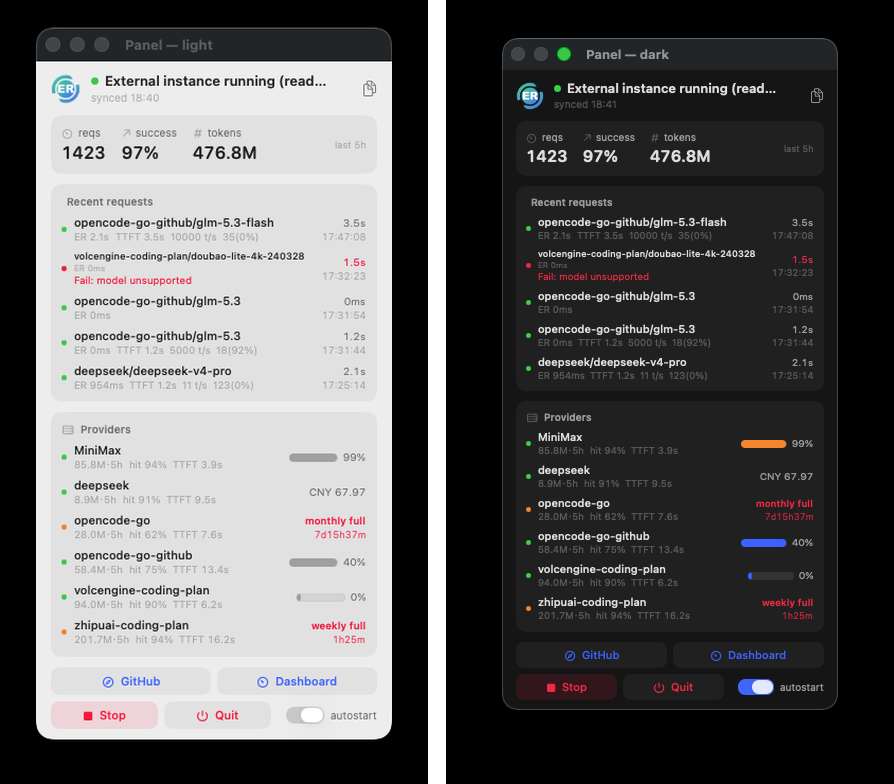
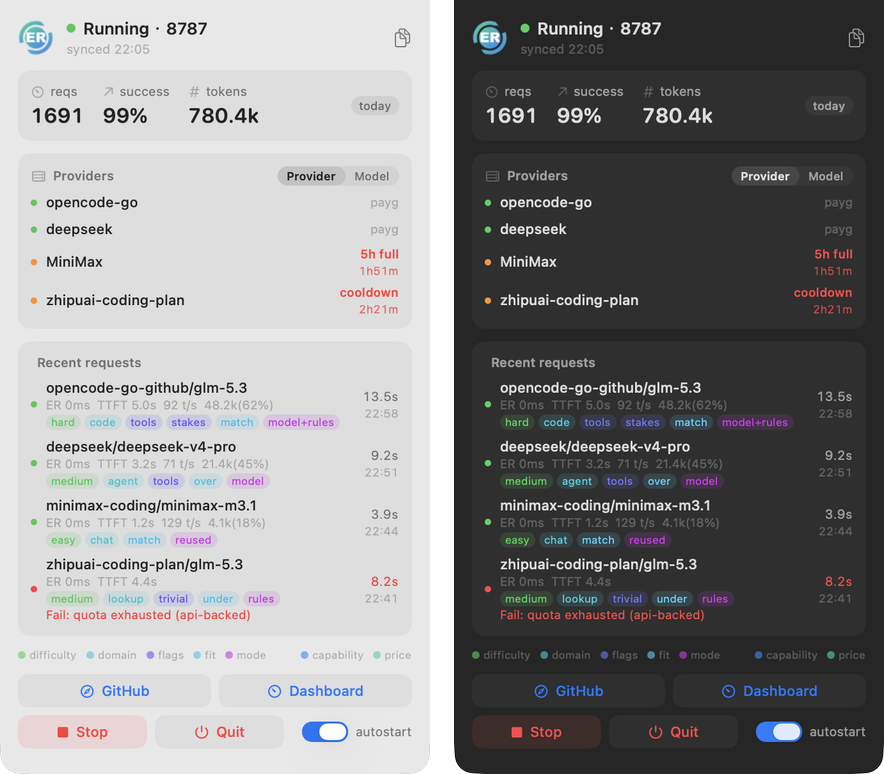
docs(readme): refresh panel screenshot and 0.1.6 feature notes

diff --git a/apps/tray/Sources/PanelPreview/main.swift b/apps/tray/Sources/PanelPreview/main.swift
@@ -11,18 +11,27 @@ enum PanelPreview {
         state.requests = 1691
         state.successRate = 99
         state.tokensK = "780.4k"
+        // 文档截图用的稳定种子（EV_PREVIEW_SEED=1）：覆盖五类标签的各种组合，
+        // 不依赖本机实时流量（否则 README 图会随环境漂移）
         state.recent = [
             RecentDecision(model: "opencode-go-github/glm-5.3", status: 200, totalMs: 13_540, ttftMs: 5_012, tokS: 92.4, agent: "opencode", time: "22:58",
-                           capability: "powerful",
+                           totalTokens: 48_210, cachePct: 62, capability: "powerful",
                            tags: DecisionTags(difficulty: "hard", domain: "code", flags: ["tools", "stakes"], mode: "model+rules", fit: "match")),
+            RecentDecision(model: "deepseek/deepseek-v4-pro", status: 200, totalMs: 9_180, ttftMs: 3_240, tokS: 71.2, agent: "claude-code", time: "22:51",
+                           totalTokens: 21_450, cachePct: 45, capability: "powerful",
+                           tags: DecisionTags(difficulty: "medium", domain: "agent", flags: ["tools"], mode: "model", fit: "over")),
+            RecentDecision(model: "minimax-coding/minimax-m3.1", status: 200, totalMs: 3_905, ttftMs: 1_180, tokS: 128.6, agent: "opencode", time: "22:44",
+                           totalTokens: 4_120, cachePct: 18, capability: "basic",
+                           tags: DecisionTags(difficulty: "easy", domain: "chat", flags: [], mode: "reused", fit: "match")),
             RecentDecision(model: "zhipuai-coding-plan/glm-5.3", status: 500, totalMs: 8_214, ttftMs: 4_410, tokS: nil, agent: "pi", time: "22:41",
-                           capability: "basic",
-                           tags: DecisionTags(difficulty: nil, domain: nil, flags: [], mode: "reused", fit: nil)),
+                           failReason: "quota exhausted (api-backed)", capability: "powerful",
+                           tags: DecisionTags(difficulty: "medium", domain: "lookup", flags: ["trivial"], mode: "rules", fit: "under")),
         ]
         state.providers = [
             ProviderRow(key: "opencode-go", enabled: true, available: true, cooldownUntil: nil, cooldownCause: nil, pct: 4, tokens24h: 92_000, planKind: "go"),
+            ProviderRow(key: "deepseek", enabled: true, available: true, cooldownUntil: nil, cooldownCause: nil, pct: 26, tokens24h: 51_000, planKind: "api"),
+            ProviderRow(key: "MiniMax", enabled: true, available: false, cooldownUntil: Date().addingTimeInterval(6_720), cooldownCause: "quota window exhausted (5h)", pct: 100, tokens24h: 12_400, planKind: "coding"),
             ProviderRow(key: "zhipuai-coding-plan", enabled: true, available: false, cooldownUntil: Date().addingTimeInterval(8_520), cooldownCause: "transient error (cooling down)", pct: 71, tokens24h: 51_000, planKind: "coding"),
-            ProviderRow(key: "minimax-coding", enabled: false, available: true, cooldownUntil: nil, cooldownCause: nil, pct: nil, tokens24h: 0, planKind: "coding"),
         ]
         state.lastSync = Date()
 
@@ -36,8 +45,9 @@ enum PanelPreview {
         win.backgroundColor = scheme == .dark
             ? NSColor(deviceWhite: 0.08, alpha: 0.96)
             : NSColor(deviceWhite: 0.94, alpha: 0.96)
+        let seeded = ProcessInfo.processInfo.environment["EV_PREVIEW_SEED"] != nil
         let host = NSHostingView(
-            rootView: PanelView(state: state, gateway: .shared)
+            rootView: PanelView(state: state, gateway: .shared, previewSeed: seeded)
                 .environment(\.colorScheme, scheme)
         )
         win.contentView = host
@@ -57,7 +67,9 @@ enum PanelPreview {
             }
         }
         // 预览 harness 轮询循环：等真实网关就绪即覆盖种子数据（app 的循环在
-        // AppDelegate 里，harness 只跑一次会错过就绪窗口）
+        // AppDelegate 里，harness 只跑一次会错过就绪窗口）。
+        // EV_PREVIEW_SEED=1 = 只渲染种子（README 截图用，保证图稳定可复现）
+        if ProcessInfo.processInfo.environment["EV_PREVIEW_SEED"] != nil { return }
         Task { [weak state] in
             guard let state else { return }
             while !Task.isCancelled {

diff --git a/apps/tray/Sources/TrayCore/PanelView.swift b/apps/tray/Sources/TrayCore/PanelView.swift
@@ -10,9 +10,13 @@ public struct PanelView: View {
         : UserDefaults.standard.bool(forKey: "ev-autostart")
     @State private var showExitConfirm = false
 
-    public init(state: AppState, gateway: GatewayProcess) {
+    /// 预览/截图模式：不触发首帧实时轮询，保证种子数据稳定渲染（README 图可复现）
+    public var previewSeed: Bool
+
+    public init(state: AppState, gateway: GatewayProcess, previewSeed: Bool = false) {
         _state = ObservedObject(wrappedValue: state)
         _gateway = ObservedObject(wrappedValue: gateway)
+        self.previewSeed = previewSeed
         _autostart = State(initialValue: UserDefaults.standard.object(forKey: "ev-autostart") == nil
             ? true
             : UserDefaults.standard.bool(forKey: "ev-autostart"))
@@ -36,6 +40,7 @@ public struct PanelView: View {
         .padding(.bottom, 20)
         .frame(width: 336)
         .task {
+            if previewSeed { return }
             await state.pollLive()
             await state.pollData()
         }

diff --git a/README.md b/README.md
@@ -6,7 +6,7 @@
 
 [![License](https://img.shields.io/badge/license-MIT-blue.svg)](LICENSE)
 [![Rust](https://img.shields.io/badge/rust-stable-orange.svg)](https://www.rust-lang.org)
-[![Tests](https://img.shields.io/badge/tests-155%20passing-brightgreen.svg)](#development)
+[![Tests](https://img.shields.io/badge/tests-197%20passing-brightgreen.svg)](#development)
 
 [English](README.md) | [中文](README.zh-CN.md)
 
@@ -98,7 +98,7 @@ Quality cascade: a *successful* response that is degenerate / empty / has broken
 
 ## Three pillars
 
-1. **Intelligent decisions, not prefix rules.** Every request is judged by a pluggable **decision model** on 8 signals (domain, difficulty, needs-vision, triviality, tool-density, high-stakes, session depth, size). A built-in multilingual heuristic judge runs as an independent second opinion (take-conservative fusion, covering the decision model's CJK blind spots); if the decision model is unreachable, the heuristic takes over and **routing never blocks**. Backends are swappable by config — cloud (TypeSafe Jev) or self-hosted open-source decision models (Intern-Decision, StartLux-Decision) behind the same protocol.
+1. **Intelligent decisions, not prefix rules.** Every request is judged by a pluggable **decision model** on 8 signals (domain, difficulty, needs-vision, triviality, tool-density, high-stakes, session depth, size). A built-in multilingual heuristic judge runs as an independent second opinion (take-conservative fusion, covering the decision model's CJK blind spots); if the decision model is unreachable, the heuristic takes over and **routing never blocks**. Backends are swappable by config — cloud (TypeSafe Jev) or self-hosted open-source decision models (Intern-Decision, StartLux-Decision) behind the same protocol. Re-judging is skipped only inside a **tool loop** (the request continues a tool call of the same turn) and only while the previous judgment stays low-difficulty, the size band holds, the toolset is unchanged, and the service healthy — a new user message always triggers a full re-judgment.
 2. **Budget-aware routing.** Every candidate is priced in its plan's own currency — credits (zhipu / Z.ai / MiniMax), dollars (opencode zen Go), AFP (volces) — before it is scored. Quota budget protection runs at three levels: **>60%** of your allowance deprioritizes the plan, **>85%** breaks session stickiness, **>95%** filters it out entirely — preserving headroom for the tasks that actually need it.
 3. **Managed plans in one dashboard.** Vendor subscription plans are first-class citizens: tiers, allowances, credit multipliers and per-model dollar limits are built in; the dashboard shows live provider-reported quotas per window with one-click reconciliation.
 
@@ -128,6 +128,7 @@ Plans are auto-detected from base URLs, and every window (5h / weekly / monthly)
 - **Self-distilling capability cards** — Every 50 gated successes per model, the decision model re-estimates that model's capability tiers from observed statistics (conservatively merged, shift ≤ 0.15 per step) — so silently-updated upstream models can't leave the catalog stale. Users' explicit tier declarations are never overridden; delete `distilled.json` to roll back.
 - **Any Agent, any Provider** — opencode / Claude Code / Codex / Pi, openclaw / hermes / dsh (local harnesses), and any OpenAI- or Anthropic-compatible client. No code changes to your stack. Routes to any OpenAI-compatible **or** Anthropic upstream; Switchyard handles bidirectional streaming translation (event mapping + deterministic IDs) so Claude Code works out of the box. Subscription plans (zhipu coding, Z.ai, opencode zen, volces, MiniMax) and pay-as-you-go APIs share one endpoint.
 - **Fast decisions, zero-deps deployment** — Single Rust binary, 6.7 MB; cold start <30 ms; one request adds <300 ms (a decision-model call + heuristic fallback). Multi-key pool rotation, provider- and endpoint-level circuit breaking, and an out-of-chain last-resort sweep keep routing alive through single-vendor outages.
+- **Every request is tagged with its own decision** — difficulty, domain, hit flags (trivial / tools / vision / stakes), difficulty↔capability fit and decision path (`model` / `model+rules` / `reused` / `rules` / `pinned`) are derived **once, server-side**, written into the event, and rendered identically by the dashboard and the macOS panel. The tag vocabulary and thresholds live in one place (`decision_tags.rs` + `thresholds.rs`), so the two surfaces cannot drift.
 - **Full dashboard control, every decision visible** — Zero-build dashboard at `http://127.0.0.1:8787`: live decision stream with plain-language reasons, scoring matrix, fallback chains with per-hop causes, latency waterfall, model trends, provider & quota management, flywheel learning state. Every response carries `x-ev-model / x-ev-reason / x-ev-decision-id`; `/api/events` exposes the JSONL decision log for query and replay.
 
 ## Quick Start
@@ -215,6 +216,19 @@ On macOS, EvolveRouter lives in your **menu bar** as a native SwiftUI panel. The
 
 The panel streams live decisions, per-provider 5-hour quotas, cache-hit rates, tok/s, TTFT, cooldown countdowns with causes, and one-tap wiring-config copy — all without opening the dashboard.
 
+Every request and every model row is **tagged with the decision itself**, rendered from the same server-derived values the dashboard uses:
+
+| Category | Values | What it answers |
+|---|---|---|
+| `difficulty` | easy / medium / hard | how hard the gateway judged this request (drives the quality floor and cost weight) |
+| `domain` | code / math / data / agent / writing / lookup / chat | which capability tiers the request is scored against |
+| `flags` | trivial / tools / vision / stakes | request traits the judge flagged (thresholds match the routing gates) |
+| `fit` | match / over / under | task difficulty ↔ chosen model's capability tier |
+| `mode` | model / model+rules / reused / rules / pinned | who decided the route — the last three skipped the decision model |
+| `capability` · `price` | basic / standard / powerful · cheap / medium / premium | the chosen model's tier (Model tab) |
+
+Top metrics switch between **today** and **yesterday** (calendar windows, persisted in hourly buckets), and the Providers card toggles between provider and per-model views.
+
 ![EvolveRouter macOS menu bar panel — light & dark](docs/assets/panel.png)
 
 
@@ -276,7 +290,7 @@ Deep dives: [Architecture](docs/ARCHITECTURE.md) · [Decision flow](docs/DECISIO
 
 ```bash
 cargo build --release
-cargo test          # 111 tests
+cargo test          # 197 tests
 cargo clippy        # zero warnings policy
 ```
 
